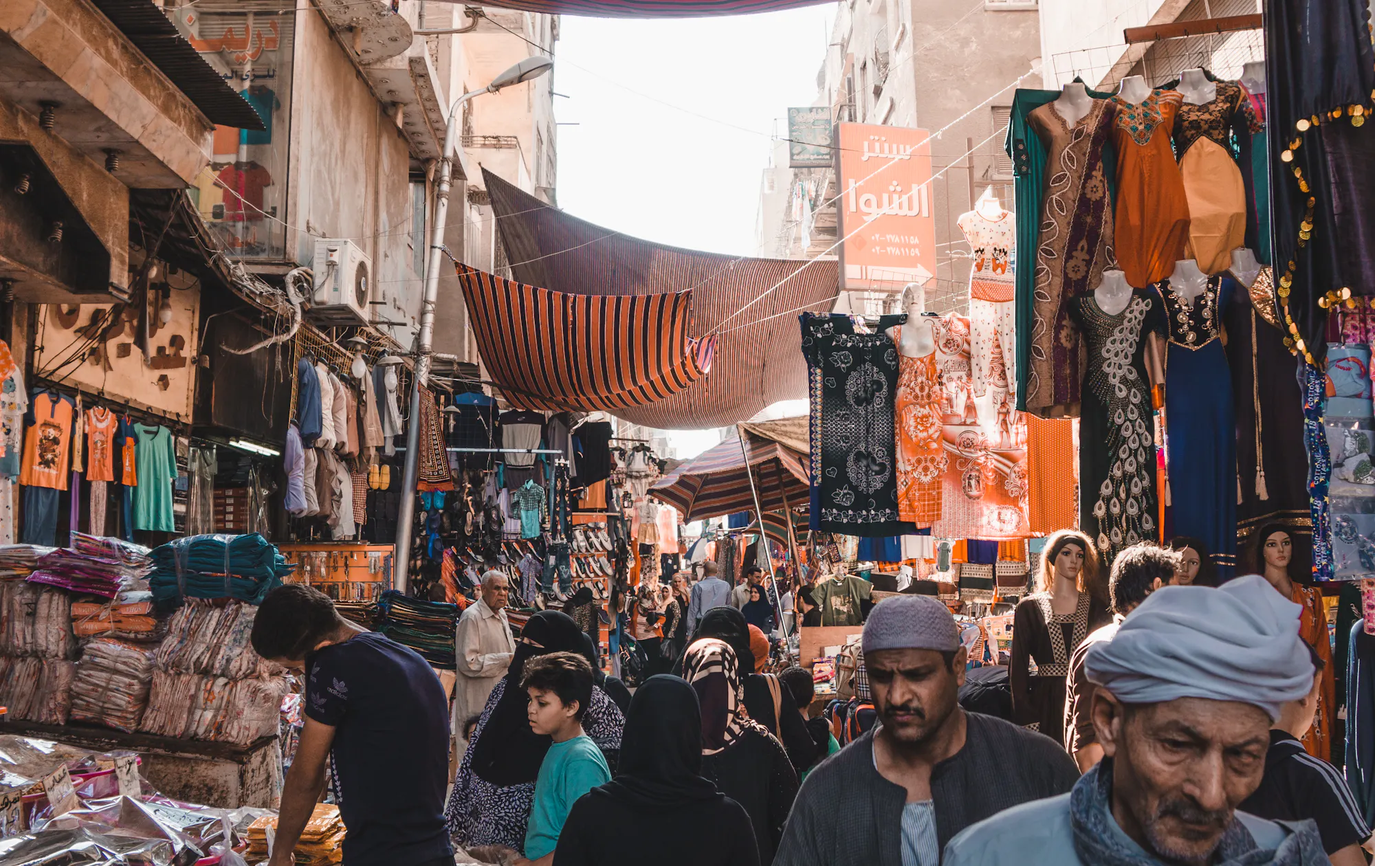
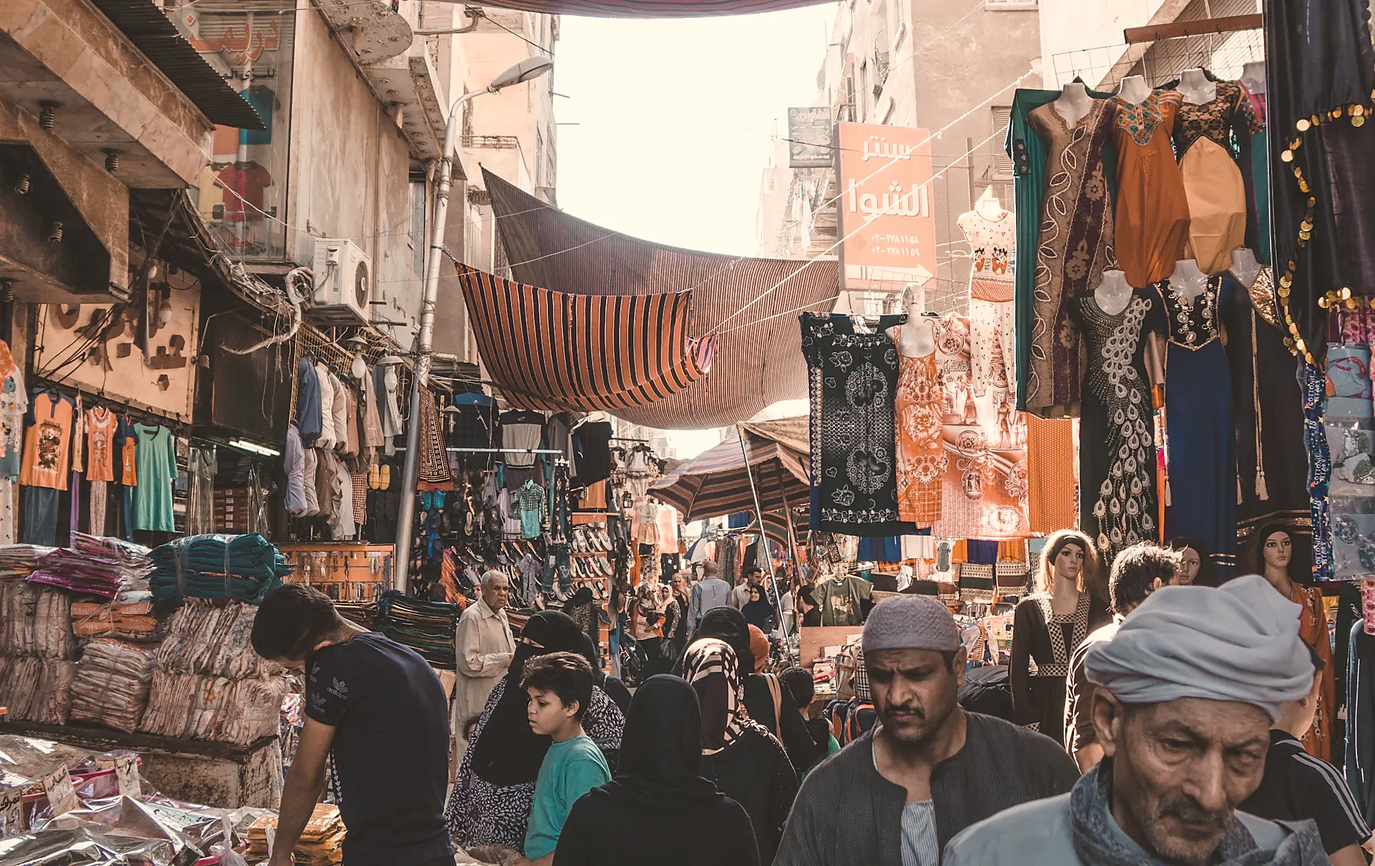
Improve Yalla Egypt site v4.6

diff --git a/js/data.js b/js/data.js
@@ -178,18 +178,22 @@ const OPENING = {
 
 /* ------------------------------------------------------------
    HERO STILLS — the cinematic sequence.
-   Coordinates are real. The image/location pairing should be
-   re-verified once owned photography replaces these stand-ins.
+   Coordinates are real, and every entry now matches the photograph
+   actually filed under it. The order is a route, not a gallery:
+   the plateau, then the temple, then the river, then the city,
+   then the coast — arrival through to the slow end of a trip.
+
+   The first three are owned photography. The last two are the
+   only placeholders that survived the cut, regraded to sit in the
+   same warm, low-saturation family as the owned frames; replace
+   them first when the shoot delivers.
    ------------------------------------------------------------ */
 const HERO = [
-  { base:"assets/images/hero/giza-1",   widths:[1200,2000], name:"Giza",    geo:"29.9753°N 31.1376°E", old:"Rostau",          alt:"A lone figure walking below the Great Sphinx at Giza" },
-  { base:"assets/images/hero/luxor-1",  widths:[1200,2000], name:"Luxor",   geo:"25.7188°N 32.6573°E", old:"Waset",           alt:"Colonnade of a temple at Luxor seen from below" },
-  { base:"assets/images/hero/aswan-1",  widths:[1200,2000], name:"Aswan",   geo:"24.0889°N 32.8998°E", old:"Swenett",         alt:"A felucca under sail on the Nile at Aswan" },
-  { base:"assets/images/hero/redsea-1", widths:[1200,2000], name:"Red Sea", geo:"27.9158°N 34.3300°E", old:"Sinai coast",     alt:"Bare mountains meeting the Red Sea" },
-  { base:"assets/images/hero/thebes-1", widths:[1200,2000], name:"Thebes",  geo:"25.7380°N 32.6067°E", old:"West Bank",       alt:"Terraced limestone temple on the Theban west bank" },
-  { base:"assets/images/hero/giza-2",   widths:[1200,2000], name:"Giza",    geo:"29.9792°N 31.1342°E", old:"Plateau",         alt:"Camels crossing the sand below the pyramids" },
-  { base:"assets/images/hero/cairo-1",  widths:[1200,2000], name:"Cairo",   geo:"30.0444°N 31.2357°E", old:"Al-Qahira",       alt:"A sailboat on the Nile with Cairo behind it" },
-  { base:"assets/images/hero/cairo-2",  widths:[1200,2000], name:"Cairo",   geo:"30.0477°N 31.2622°E", old:"Khan el-Khalili", alt:"Narrow lane between market stalls in old Cairo" }
+  { base:"assets/images/hero/giza-1",   widths:[1200,2000], name:"Giza",    geo:"29.9753°N 31.1376°E", old:"Rostau",          alt:"A camel train crossing the sand below the pyramids at Giza" },
+  { base:"assets/images/hero/luxor-1",  widths:[1200,2000], name:"Luxor",   geo:"25.7188°N 32.6573°E", old:"Waset",           alt:"Colossal seated statues along a temple wall at Karnak" },
+  { base:"assets/images/hero/aswan-1",  widths:[1200,2000], name:"Aswan",   geo:"24.0889°N 32.8998°E", old:"Swenett",         alt:"A felucca under sail on the Nile at dusk" },
+  { base:"assets/images/hero/cairo-2",  widths:[1200,2000], name:"Cairo",   geo:"30.0477°N 31.2622°E", old:"Khan el-Khalili", alt:"Narrow lane between market stalls in old Cairo" },
+  { base:"assets/images/hero/redsea-1", widths:[1200,2000], name:"Red Sea", geo:"27.9158°N 34.3300°E", old:"Sinai coast",     alt:"Bare mountains meeting the Red Sea" }
 ];
 
 /* ------------------------------------------------------------
@@ -219,7 +223,7 @@ const TOURS = [
     } },
 
   { id:"luksor-karnak",
-    img:"assets/images/destinations/luxor-900.webp", iw:900, ih:1247,
+    img:"assets/images/tours/luxor-karnak-1100.webp", iw:825, ih:1100,
     t:{
       tr:{ meta:"4 Gün · Luksor", n:"Luksor & Karnak",
            d:"Firavunların açık hava başkentinde; Karnak'ın dev sütunları, Kral Vadisi'nin gizli mezarları." },
@@ -325,13 +329,26 @@ const ITINERARY = {
    DESTINATIONS
    enabled:false is filtered out before render — Siwa has no
    cached image yet (add destinations/siwa-{500,900}.webp first).
+
+   Giza and Luxor are owned photography. The rest are regraded
+   placeholders, and two of them are wrong on the facts rather
+   than merely generic:
+
+     * Abu Simbel shows the colossus at Luxor Temple, not Abu
+       Simbel. The alt text describes only what is in frame, so
+       nothing here claims otherwise, but this is the one card
+       that a real photograph has to replace before launch.
+     * Alexandria is a shoreline that could be almost anywhere.
+
+   Both are still enabled: they are places the company sells, and
+   an empty card would say less than a weak one.
    ------------------------------------------------------------ */
 const DESTINATIONS = [
-  { name:"Giza",       sub:"Rostau",                base:"assets/images/destinations/giza",       widths:[500,900], enabled:true,  alt:"The Great Pyramid rising above the plateau" },
-  { name:"Luxor",      sub:"Waset",                 base:"assets/images/destinations/luxor",      widths:[500,900], enabled:true,  alt:"Visitors dwarfed by temple columns at Luxor" },
-  { name:"Aswan",      sub:"Swenett",               base:"assets/images/destinations/aswan",      widths:[500,900], enabled:true,  alt:"A boat under sail on the Nile near Aswan" },
-  { name:"Cairo",      sub:"Al-Qahira",             base:"assets/images/destinations/cairo",      widths:[500,900], enabled:true,  alt:"A doorway in old Cairo" },
-  { name:"Abu Simbel", sub:"Meha & Ibshek",         base:"assets/images/destinations/abu-simbel", widths:[500,900], enabled:true,  alt:"Colossal seated statue carved from rock" },
+  { name:"Giza",       sub:"Rostau",                base:"assets/images/destinations/giza",       widths:[500,900], enabled:true,  alt:"The pyramid of Khafre with the Sphinx below it" },
+  { name:"Luxor",      sub:"Waset",                 base:"assets/images/destinations/luxor",      widths:[500,900], enabled:true,  alt:"A visitor dwarfed by the painted columns of the hypostyle hall at Karnak" },
+  { name:"Aswan",      sub:"Swenett",               base:"assets/images/destinations/aswan",      widths:[500,900], enabled:true,  alt:"A felucca under sail past the dunes at Aswan" },
+  { name:"Cairo",      sub:"Al-Qahira",             base:"assets/images/destinations/cairo",      widths:[500,900], enabled:true,  alt:"Minarets and domes above the rooftops of old Cairo" },
+  { name:"Abu Simbel", sub:"Meha & Ibshek",         base:"assets/images/destinations/abu-simbel", widths:[500,900], enabled:true,  alt:"A colossal seated statue of Ramesses II against a temple pylon" },
   { name:"Red Sea",    sub:"Marsa Alam · Hurghada", base:"assets/images/destinations/red-sea",    widths:[500,900], enabled:true,  alt:"A shoal of fish over a Red Sea reef" },
   { name:"Alexandria", sub:"Rhakotis",              base:"assets/images/destinations/alexandria", widths:[500,900], enabled:true,  alt:"The Mediterranean shore at Alexandria" },
   { name:"Siwa",       sub:"Ammonium",              base:"assets/images/destinations/siwa",       widths:[500,900], enabled:false, alt:"Mudbrick architecture at Siwa oasis" }

diff --git a/css/styles.css b/css/styles.css
@@ -889,6 +889,25 @@ ul,ol{ margin:0; padding:0; list-style:none; }
    the page exactly as the light ones did. */
 .sec--paper{ background:var(--obsidian); color:var(--papyrus-dim); }
 .sec--paper-deep{ background:var(--anthracite); color:var(--papyrus-dim); }
+/* A photograph set far enough back to read as ground rather than as
+   an image, masked off at both edges so it never announces where it
+   starts. Section 04 is the only user: five steps of process is the
+   one stretch of the page with nothing to look at, and the frame
+   behind it — a glass on a ledge above the plateau — is the thing
+   the process is for. Keep the opacity low enough that body copy
+   never has to fight it. */
+.sec--plate{ isolation:isolate; }
+.sec--plate::before{
+  content:"";
+  position:absolute; inset:0; z-index:0;
+  background:url("../assets/images/misc/approach-bg-1800.webp") center / cover no-repeat;
+  opacity:.15;
+  -webkit-mask-image:linear-gradient(to bottom, transparent, #000 24%, #000 62%, transparent);
+          mask-image:linear-gradient(to bottom, transparent, #000 24%, #000 62%, transparent);
+  pointer-events:none;
+}
+.sec--plate > .wrap{ position:relative; z-index:1; }
+
 .sec--tight-top{ padding-top:0; }
 .sec--short{ padding-block:clamp(3rem,6vw,5rem); }
 .sec--strip{ padding-bottom:clamp(3rem,6vw,5rem); }
@@ -1480,6 +1499,7 @@ body.past-hero .wa{ opacity:1; visibility:visible; transform:none; }
   .sec, .foot{ background:#fff !important; color:#000 !important; padding-block:1.5rem; }
   .hero{ min-height:auto; }
   .hero-stage, .hero-video-slot, .hero-veil, .hero-dim, .hero-gesture, .hero-bloom{ display:none !important; }
+  .sec--plate::before{ display:none !important; }
   .hero-in{ padding-block:0; }
   .hero-h, .hero-sub, .hero-wordmark{ color:#000 !important; text-shadow:none !important; }
   .hero-mark{ color:#000 !important; filter:none !important; }

diff --git a/index.html b/index.html
@@ -438,7 +438,7 @@
 </section>
 
 <!-- ===================== PLANNING ===================== -->
-<section class="sec sec--blue" id="planning" data-ground="dark" aria-labelledby="s5-h">
+<section class="sec sec--blue sec--plate" id="planning" data-ground="dark" aria-labelledby="s5-h">
   <div class="wrap">
     <p class="eyebrow" data-secnum><span data-i18n="s5.eye">From first message to landing</span></p>
     <h2 id="s5-h" class="lead rv" data-i18n="s5.lead">Five steps. You can stop after any of them.</h2>

diff --git a/tools/build-images.py b/tools/build-images.py
@@ -1,0 +1,215 @@
+#!/usr/bin/env python3
+"""Build every photographic asset the site serves, from the originals in design/.
+
+    python tools/build-images.py
+
+Requires Pillow. Rewrites assets/images/** and assets/icons/og-image.jpg in
+place; nothing reads this script at runtime, so the repository stays a static
+site. It exists because the crops and the colour grade below are decisions,
+not accidents, and re-deriving them by hand the next time a photograph is
+swapped would lose them.
+
+Retained stock is graded toward the supplied photographs rather than the other
+way round: those frames are warm, hazy and restrained, and the site's own art
+direction asks for exactly that over the saturated HDR look the placeholder
+set arrived with. See assets/images/README.txt for which files are owned,
+which are stock, and which still need reshooting.
+"""
+import os
+from PIL import Image, ImageEnhance, ImageFilter, ImageOps
+
+ROOT   = os.path.dirname(os.path.dirname(os.path.abspath(__file__)))
+DESIGN = os.path.join(ROOT, "design")
+OUT    = os.path.join(ROOT, "assets", "images")
+ICONS  = os.path.join(ROOT, "assets", "icons")
+
+# Short keys for the supplied set, so the mapping further down stays readable.
+# The filenames are as delivered, mangled characters and all; renaming them
+# would only move the problem into whatever the next batch is called.
+SRC = {
+    "colossi":   "WhatsApp Image 2026-08-19 at 1.43.26 PM.jpeg",   # Karnak seated colossi
+    "dancer":    "WhatsApp Image 2026-08-19 at 1.43.29 PM.jpeg",   # figure in the hypostyle hall
+    "columns":   "WhatsApp Image 2026-08-19 at 1.43d.29 PM.jpeg",  # painted capitals from below
+    "rooftop":   "WhatsApp Image 2026-08-19 at 1.43.30 PM.jpeg",   # unused: rooftop cafe
+    "felucca":   "WhatsApp Image 2026-08-19 at 1.43.30 PfM.jpeg",  # the Nile at golden hour
+    "wine":      "WhatsApp Image 2026-08-19 at 1.43.30f PM.jpeg",  # a glass against Khafre
+    "caravan":   "WhatsApp Image 2026-08-19 at 1.43.3f1 PM.jpeg",  # camel train, backlit
+    "table":     "WhatsApp Image 2026-08-19 at 1.4f3.31 PM.jpeg",  # breakfast facing the plateau
+    "sphinx":    "WhatsApp Image 2026d08-19 at 1.43.31 PM.jpeg",   # unused: Sphinx in profile
+    "khafre":    "WhatsApp Image f2026-08-19 at 1.43.31 PM.jpeg",  # Khafre with the Sphinx below
+}
+
+
+def load(key):
+    """A supplied original, by short key."""
+    return ImageOps.exif_transpose(Image.open(os.path.join(DESIGN, SRC[key]))).convert("RGB")
+
+
+def crop_ratio(im, ratio, ax=0.5, ay=0.5, zoom=1.0):
+    """Largest ratio-correct window, scaled by `zoom`, anchored at (ax, ay).
+
+    ax/ay are 0..1 positions of the window centre inside the frame, so
+    ay=0.35 keeps a horizon high and ay=0.65 keeps it low.
+    """
+    W, H = im.size
+    # Whichever edge is limiting sets the window; the other follows the ratio.
+    w, h = (H * ratio, H) if W / H > ratio else (W, W / ratio)
+    w, h = w / zoom, h / zoom
+    x = min(max(ax * W - w / 2, 0), W - w)
+    y = min(max(ay * H - h / 2, 0), H - h)
+    return im.crop((round(x), round(y), round(x + w), round(y + h)))
+
+
+def grade(im, warm=0.0, sat=1.0, contrast=1.0, bright=1.0, lift=0.0):
+    """House grade: warm sand, restrained saturation, gentle contrast.
+
+    `warm` shifts red up and blue down (positive), which is also what pulls
+    the cyan out of the HDR skies in the placeholder set. `lift` raises the
+    black point for the filmic haze the supplied photographs already have.
+    """
+    if bright != 1.0:
+        im = ImageEnhance.Brightness(im).enhance(bright)
+    if contrast != 1.0:
+        im = ImageEnhance.Contrast(im).enhance(contrast)
+    if sat != 1.0:
+        im = ImageEnhance.Color(im).enhance(sat)
+    if warm:
+        r, g, b = im.split()
+        r = r.point(lambda v: min(255, int(v * (1 + warm * 0.06) + warm * 3)))
+        b = b.point(lambda v: max(0, int(v * (1 - warm * 0.055) - warm * 2)))
+        im = Image.merge("RGB", (r, g, b))
+    if lift:
+        k = int(lift * 255)
+        im = im.point(lambda v: int(k + v * (255 - k) / 255))
+    return im
+
+
+def finish(im, size, sharp=0.55):
+    """Resize to the exact target, sharpening in proportion to the stretch."""
+    up = size[0] / im.width
+    im = im.resize(size, Image.LANCZOS)
+    amount = sharp * (1.6 if up > 1.05 else 1.0)
+    return im.filter(ImageFilter.UnsharpMask(radius=1.4, percent=int(amount * 100), threshold=3))
+
+
+def save(im, relpath, q=84):
+    dst = os.path.join(OUT, relpath)
+    os.makedirs(os.path.dirname(dst), exist_ok=True)
+    im.save(dst, "WEBP", quality=q, method=6)
+    return dst, os.path.getsize(dst)
+
+
+def stock(name):
+    """An ungraded placeholder original, from design/stock/.
+
+    Every retained placeholder is read from there rather than from
+    assets/images/, because each one is both an input to this script and an
+    output of it — reading the live file would grade an already-graded file
+    a second time on every run. design/stock/ is the pristine copy and is
+    never written to, which is what makes the script idempotent.
+
+    Two of those files no longer have a matching output name. thebes-1 was a
+    photograph of Cairo filed under Thebes and now lives at
+    destinations/cairo; the old aswan-1 hero moved down to
+    destinations/aswan, its hero slot taken by the supplied felucca.
+    """
+    return Image.open(os.path.join(DESIGN, "stock", name + ".webp")).convert("RGB")
+
+
+# Matching the placeholder set to the supplied look: pull saturation back,
+# push the sand warm, lift the black point so nothing sits at true black.
+STOCK_GRADE = dict(warm=0.9, sat=0.74, contrast=0.97, bright=1.03, lift=0.055)
+# The sea frames start far bluer than anything else on the page.
+SEA_GRADE   = dict(warm=1.3, sat=0.55, contrast=0.96, bright=1.05, lift=0.07)
+# The Luxor colossus arrived with a teal sky and crushed shadows; it needs
+# the HDR pulled out of it entirely before it sits beside anything else.
+DEHDR_GRADE = dict(warm=1.9, sat=0.30, contrast=0.94, bright=1.06, lift=0.085)
+# The supplied frames only need the haze pulled out of the flatter ones.
+NEW_SOFT    = dict(warm=0.15, sat=1.03, contrast=1.06, lift=0.012)
+NEW_PLAIN   = dict(warm=0.1,  sat=1.0,  contrast=1.02)
+
+HERO = (2000, 1260), (1200, 760)
+DEST = (900, 1247), (500, 693)
+
+jobs = []   # (label, graded image, [(relpath, size), ...])
+
+
+def hero(base, im, crop, gr):
+    im = grade(crop_ratio(im, HERO[0][0] / HERO[0][1], **crop), **gr)
+    jobs.append((base, im, [("hero/%s-%d.webp" % (base, w), (w, h)) for w, h in HERO]))
+
+
+def dest(base, im, crop, gr):
+    im = grade(crop_ratio(im, DEST[0][0] / DEST[0][1], **crop), **gr)
+    jobs.append((base, im, [("destinations/%s-%d.webp" % (base, w), (w, h)) for w, h in DEST]))
+
+
+def one(rel, im, size, crop, gr):
+    jobs.append((rel, grade(crop_ratio(im, size[0] / size[1], **crop), **gr), [(rel, size)]))
+
+
+# ---------------------------------------------------------------- hero
+# A route, not a gallery: plateau, temple, river, city, coast. The stage
+# crops with object-fit:cover and pushes to scale(1.12), so every crop
+# leaves margin and keeps its subject near the horizontal centre — that is
+# the only part of the frame a phone is guaranteed to show.
+hero("giza-1",  load("caravan"), dict(ax=0.56, ay=0.46), NEW_PLAIN)
+hero("luxor-1", load("colossi"), dict(ax=0.55, ay=0.40), NEW_PLAIN)
+hero("aswan-1", load("felucca"), dict(ax=0.46, ay=0.48), NEW_SOFT)
+# The last two are the only placeholders that survived the cut.
+hero("cairo-2",  stock("cairo-2-2000"),  dict(ay=0.46), STOCK_GRADE)
+hero("redsea-1", stock("redsea-1-2000"), dict(ay=0.50), SEA_GRADE)
+
+# -------------------------------------------------------- destinations
+dest("giza",  load("khafre"), dict(ax=0.50, ay=0.50), NEW_SOFT)
+dest("luxor", load("dancer"), dict(ax=0.52, ay=0.52), NEW_PLAIN)
+# Cairo previously ran on a souvenir papyrus. The mosque skyline filed under
+# hero/thebes-1 is actually Cairo, so it lands where it belongs.
+dest("cairo", stock("thebes-1-2000"), dict(ax=0.46, ay=0.50), STOCK_GRADE)
+# Aswan previously ran on a motor yacht on open blue water. The old Aswan
+# hero is a felucca among the granite islands, which is the real place.
+dest("aswan", stock("aswan-1-2000"), dict(ax=0.30, ay=0.50), SEA_GRADE)
+dest("abu-simbel", stock("abu-simbel-900"), dict(), DEHDR_GRADE)
+# Reef: the wide frame was mostly empty water, so push into the coral.
+dest("red-sea", stock("red-sea-900"), dict(ay=0.66, zoom=1.35), STOCK_GRADE)
+# Shore: crop away the palm frond overhead and the tiled floor underfoot,
+# both of which read as a holiday snapshot rather than a coastline.
+dest("alexandria", stock("alexandria-900"), dict(ay=0.60, zoom=1.50), STOCK_GRADE)
+
+# --------------------------------------------------------------- tours
+one("tours/cairo-giza-1100.webp", load("table"), (1100, 825),
+    dict(ax=0.50, ay=0.40), NEW_SOFT)
+# New file: the Luxor card used to borrow the destination strip's photograph.
+one("tours/luxor-karnak-1100.webp", load("columns"), (825, 1100),
+    dict(ax=0.50, ay=0.48), NEW_PLAIN)
+one("tours/nile-luxor-aswan-1100.webp", stock("nile-luxor-aswan-1100"),
+    (825, 1100), dict(), SEA_GRADE)
+# Was a photograph of Cairo's mosques on the Abu Simbel card. Ramesside
+# statuary is at least the right subject; a real Abu Simbel frame is still owed.
+one("tours/abu-simbel-south-1100.webp", stock("abu-simbel-900"),
+    (1100, 825), dict(ay=0.42), DEHDR_GRADE)
+
+# ---------------------------------------------------------------- misc
+# Sits behind section 04 at 15% opacity: wants shape, not detail.
+one("misc/approach-bg-1800.webp", load("wine"), (1800, 1000),
+    dict(ax=0.50, ay=0.46), NEW_SOFT)
+
+# ---------------------------------------------------------- share card
+# Whatever leads the hero also leads every link anyone pastes.
+OG = grade(crop_ratio(load("caravan"), 1200 / 630, ax=0.56, ay=0.50), **NEW_PLAIN)
+
+
+if __name__ == "__main__":
+    total = 0
+    for _label, im, outs in jobs:
+        for rel, size in outs:
+            _, n = save(finish(im, size), rel, q=86 if size[0] >= 1600 else 84)
+            total += n
+            print("  %-44s %dx%-5d %7.1f KB" % (rel, size[0], size[1], n / 1024))
+
+    dst = os.path.join(ICONS, "og-image.jpg")
+    finish(OG, (1200, 630)).save(dst, "JPEG", quality=88, optimize=True, progressive=True)
+    n = os.path.getsize(dst)
+    total += n
+    print("  %-44s %dx%-5d %7.1f KB" % ("../icons/og-image.jpg", 1200, 630, n / 1024))
+    print("\n%.2f MB written" % (total / 1024 / 1024))
